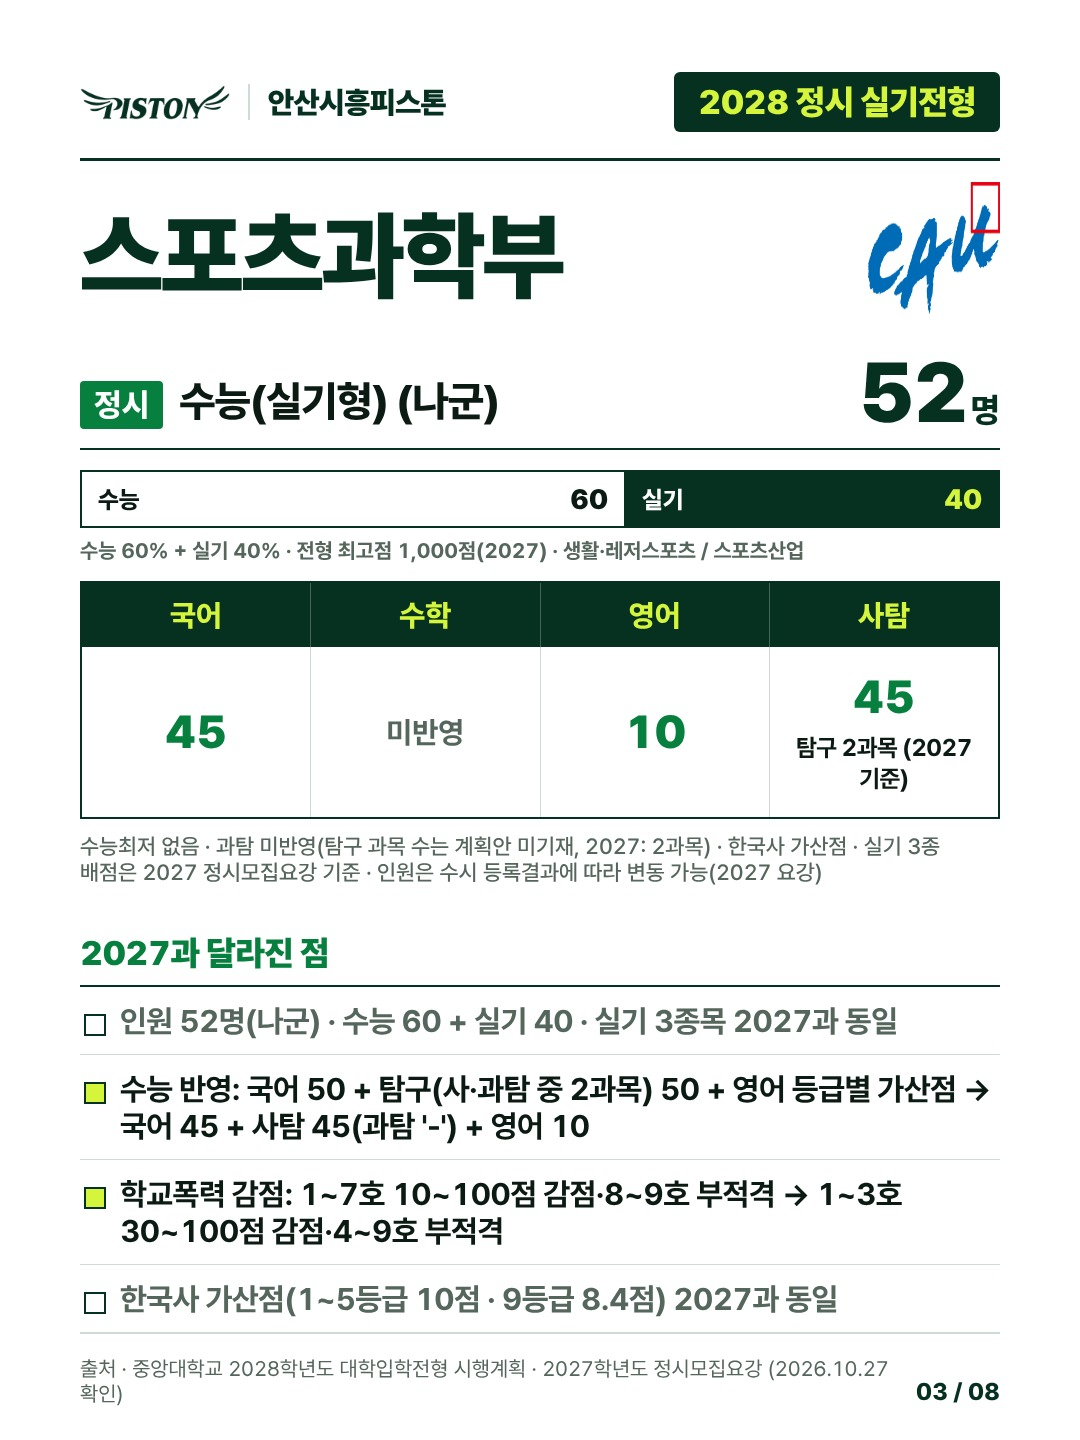
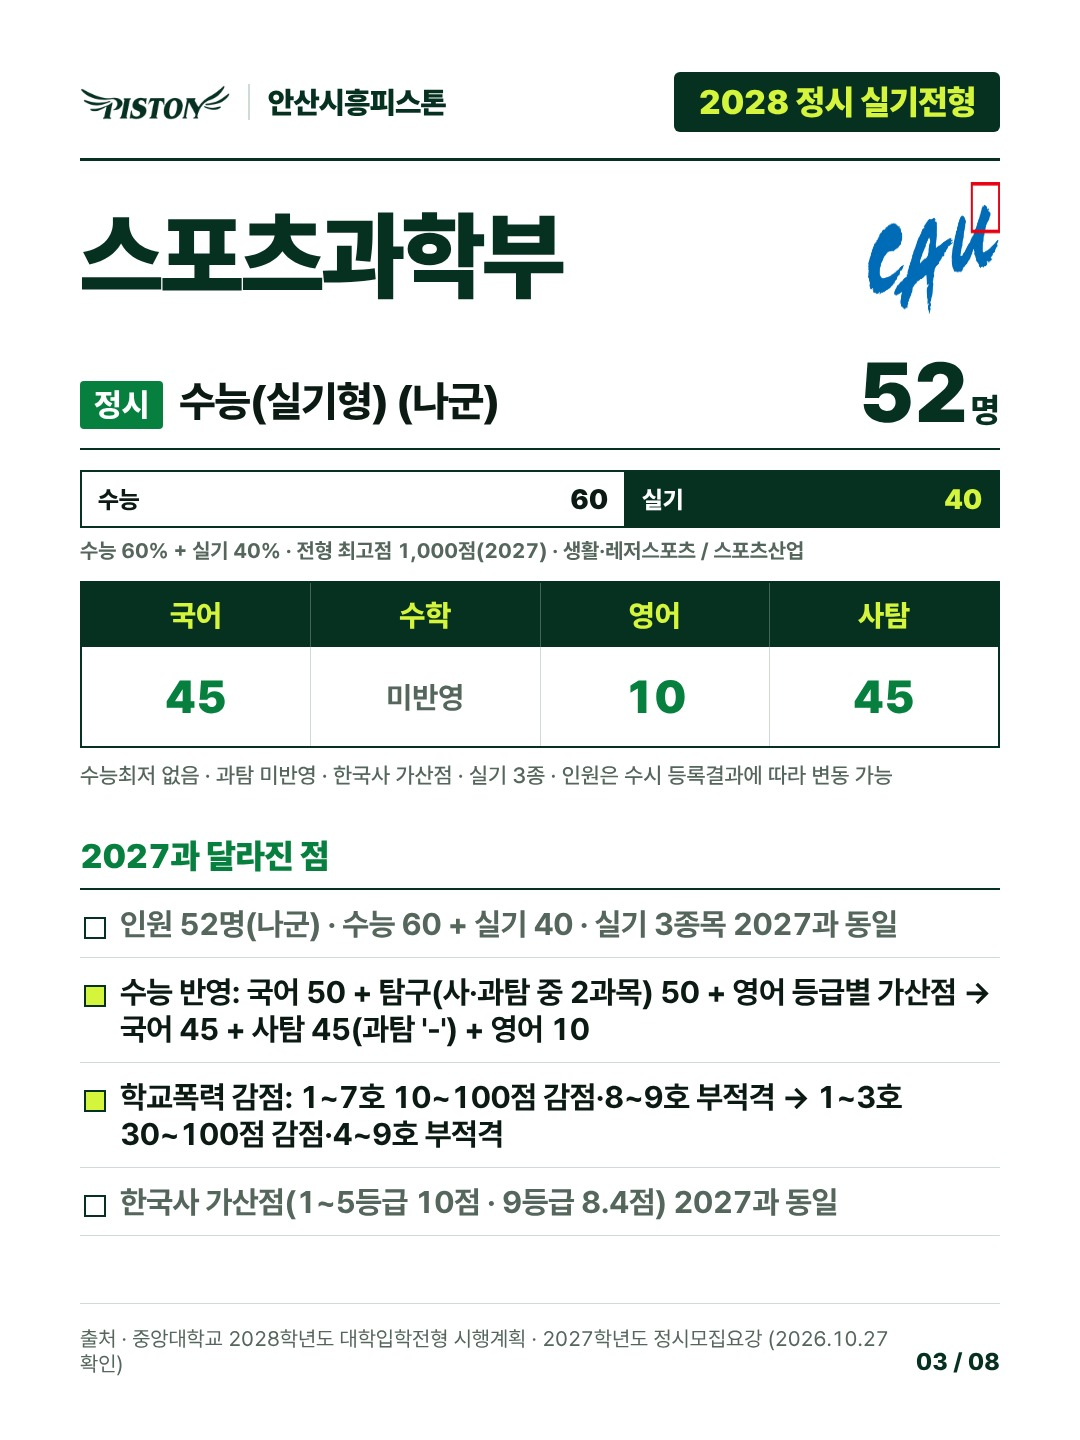
cau: 2027 언급 제거(변경사항 외)
Claude-Session: https://claude.ai/code/session_01EGTn7G8nWP1yv5M2jqmoFb

Changed region(s): [[0.0611, 0.4688, 0.9167, 0.9688], [0.825, 0.9375, 0.9472, 0.9688]]

diff --git a/social/out/cau-jeongsi-jeongsi/blog.md b/social/out/cau-jeongsi-jeongsi/blog.md
@@ -10,7 +10,7 @@
 ## 스포츠과학부
 ### 정시 수능(실기형) (나군) — 52명
 - 반영비율: 수능 60% + 실기 40% (수능 60% + 실기 40% · 전형 최고점 1,000점(2027) · 생활·레저스포츠 / 스포츠산업)
-- 수능최저 없음 · 과탐 미반영(탐구 과목 수는 계획안 미기재, 2027: 2과목) · 한국사 가산점 · 실기 3종 배점은 2027 정시모집요강 기준 · 인원은 수시 등록결과에 따라 변동 가능(2027 요강)
+- 수능최저 없음 · 과탐 미반영 · 한국사 가산점 · 실기 3종 · 인원은 수시 등록결과에 따라 변동 가능
 
 [이미지: post-3.jpg]
 
@@ -27,13 +27,11 @@
 ## 정시 반영 방법 (스포츠과학부 · 나군 · 2028학년도 시행계획)
 | 구분 | 비율 · 점수 | 반영 내용 |
 | --- | --- | --- |
-| 수능 | 60% | 국어 45% (표준점수) · 사탐 45% (표준점수·2과목*) · 영어 10% (변환점수) |
+| 수능 | 60% | 국어 45% (표준점수) · 사탐 45% (표준점수) · 영어 10% (변환점수) |
 | 실기 | 40% | 100m 달리기 34% · 메디신볼 33% · 제자리멀리뛰기 33% |
 
 ※ 수능최저 없음 · 수학·과탐 미반영 · 한국사 가산점 · 제2외국어/한문 미반영
-※ 실기 배점 비율은 2027 정시모집요강 기준 (2028 계획안은 종목명만 기재)
-※ * 탐구 2과목은 2027 정시모집요강 기준 · 2028 계획안은 과목 수 미기재
-※ 100m 달리기는 기상악화(폭설 등) 예견 시 달리기 유형의 대체 과제 시행 (대체 과제는 모집요강 공고 · 2027은 지그재그달리기 등)
+※ 100m 달리기는 기상악화(폭설 등) 예견 시 달리기 유형의 대체 과제 시행 (대체 과제는 모집요강 공고)
 
 [이미지: post-4.jpg]
 
